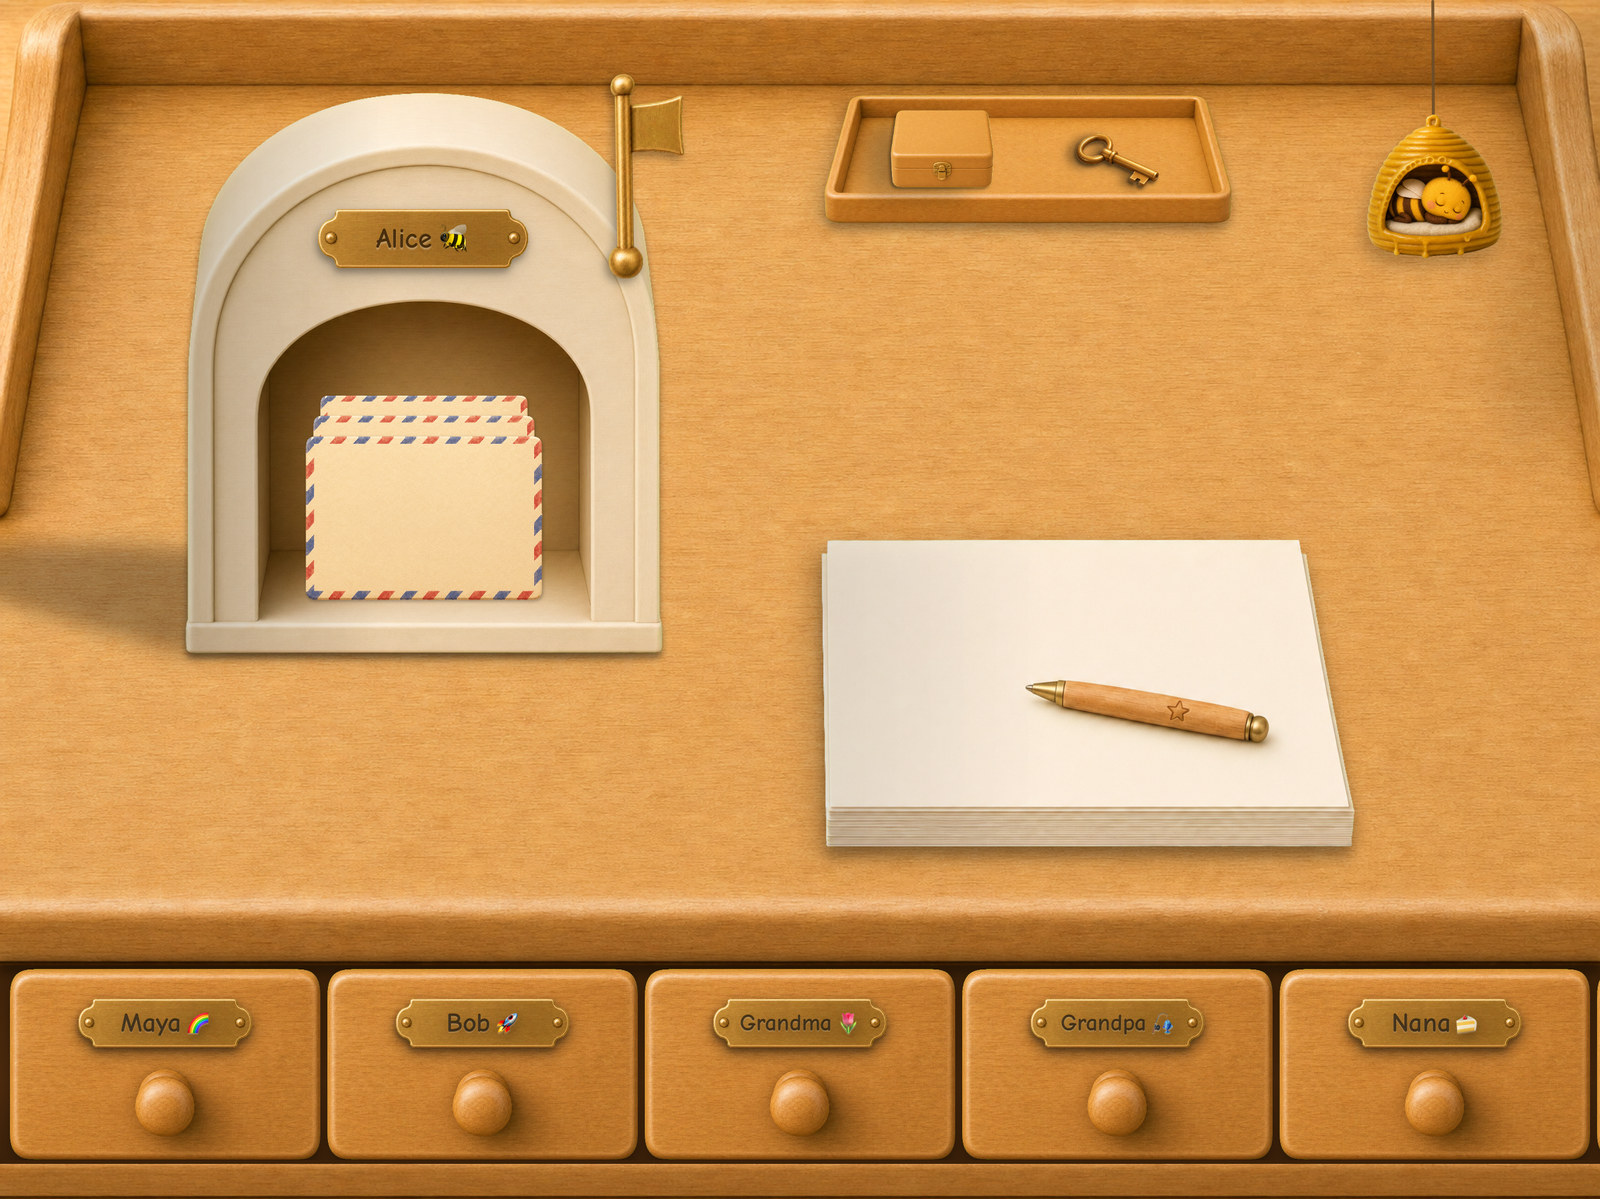
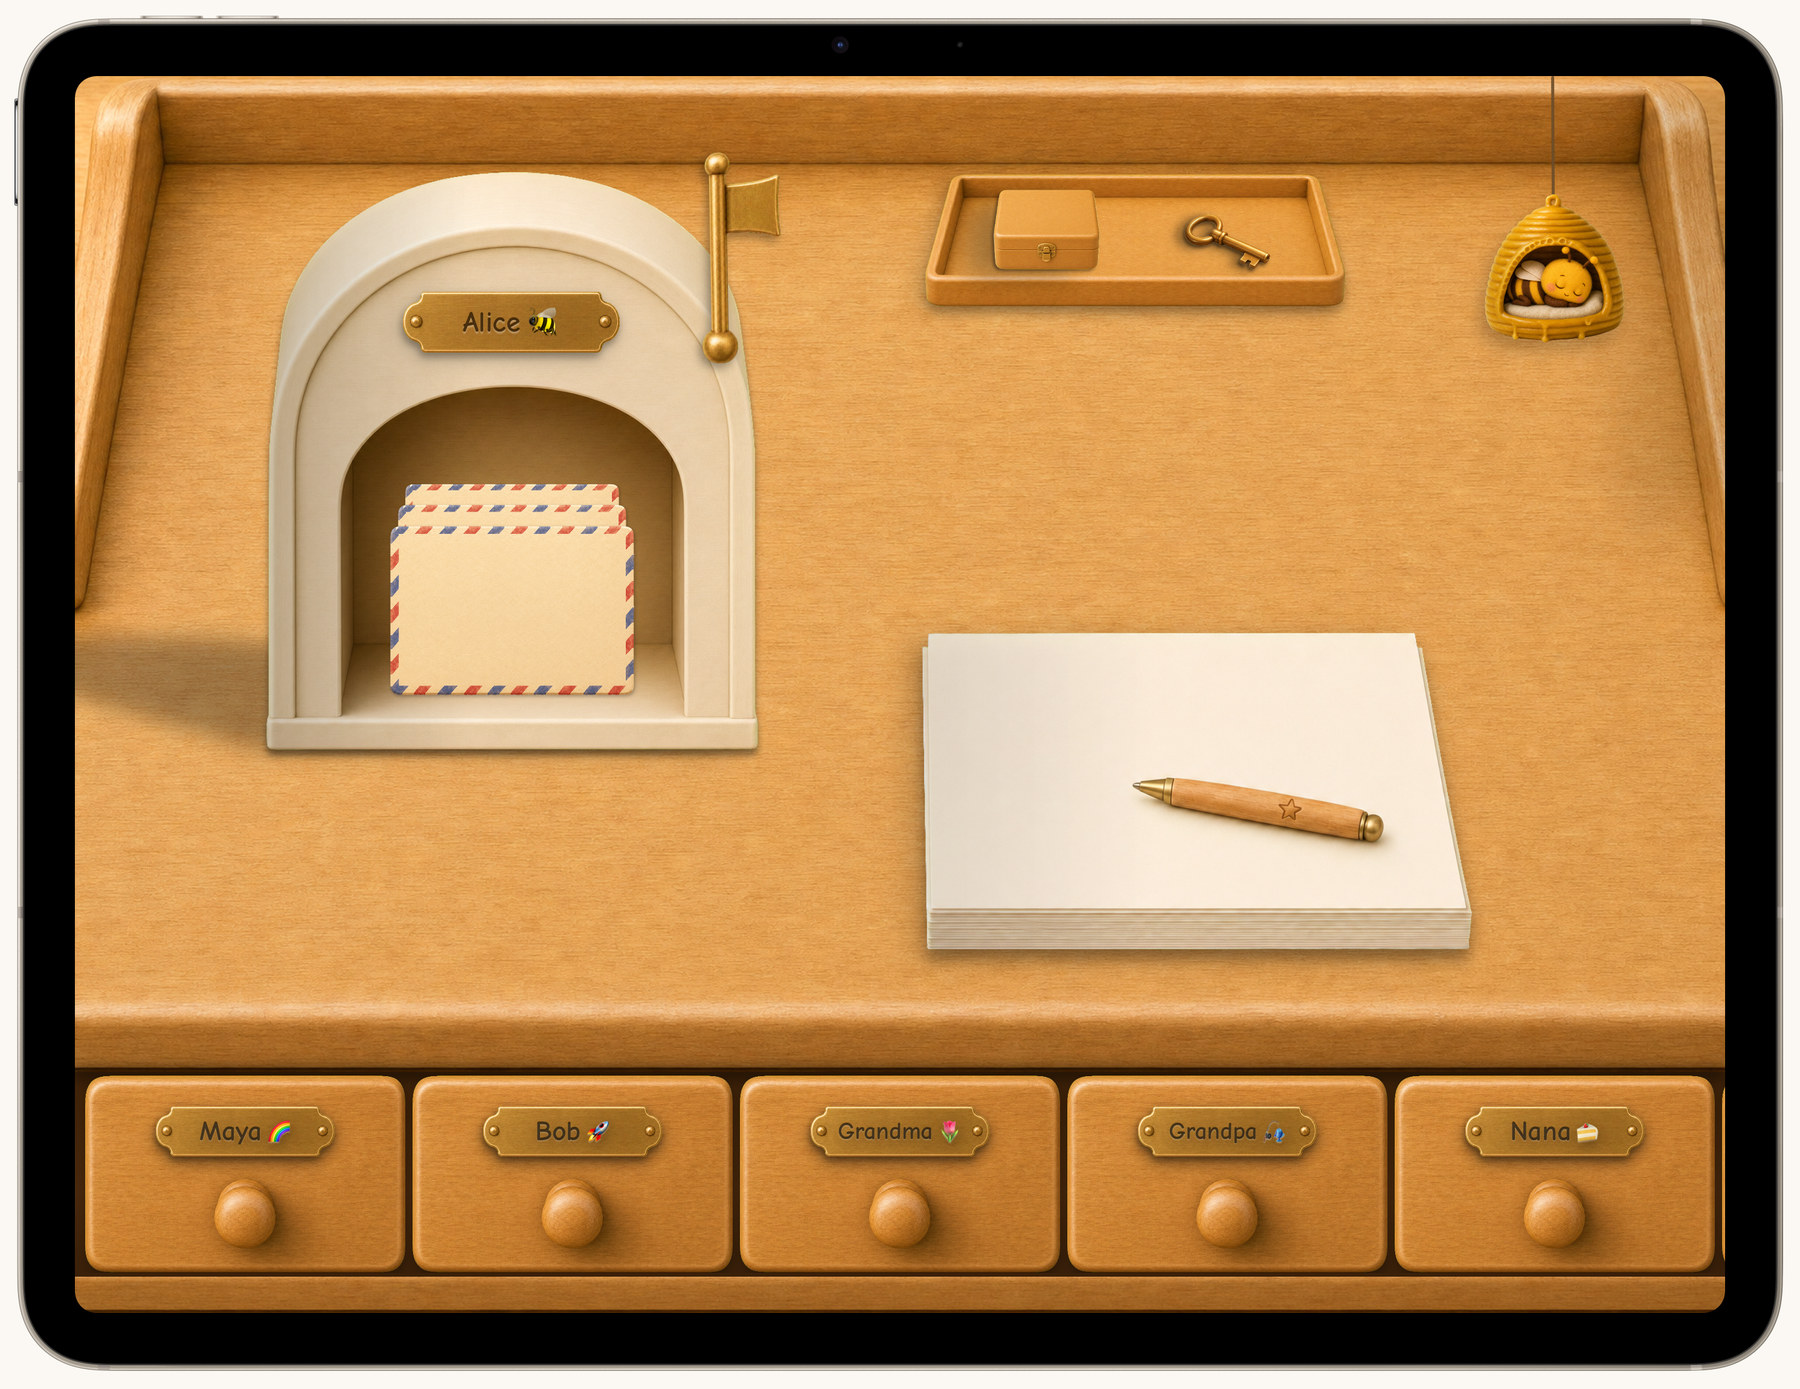
Use Apple's real iPad Air bezel instead of the CSS one
Swaps the hand-drawn CSS device for Apple's own iPad Air 13" (M4) product
bezel (Starlight, landscape) from Apple Design Resources, composited into the
image.

The fit is exact, not approximate: the bezel's screen cut-out measures
2732x2048, which is precisely the native resolution of the iPad Air 13-inch
simulator capture. The screenshot lands 1:1 at offset (124,126) with NO
resampling, so what ships is the app exactly as it rendered.

Finding that hole took a flood fill rather than a bounding box — the bezel
sits on transparency, so the screen and the surround are both alpha 0 and a
naive scan reports the whole canvas. Filling from the border marks the
outside; what stays transparent is the screen.

Flattened onto --paper (#fbf8f3) and shipped as JPEG rather than RGBA PNG: at
2980x2300 the alpha version is megabytes, and since the surround matches the
page background the edge is invisible anyway. 505KB at 1800px, so still sharp
at 2x in a 940px column. No CSS border/radius/shadow — the bezel is the frame
and its shadow is baked into Apple's asset.

Licence: Apple Design Resources are for mock-ups of UIs in software that runs
on Apple platforms, which is what this is. Hardware image unmodified, screen
shows our own app.

diff --git a/styles.css b/styles.css
@@ -115,26 +115,19 @@ a:hover { text-decoration: underline; }
   max-width: 940px;
 }
 
-/* An iPad, drawn in CSS rather than shipped as a PNG mockup: no asset to
-   licence or keep in sync, it stays crisp at every density, and the bezel
-   scales with the shot. The bezel is doing real work — it gives the
-   screenshot a reason to have an edge, which is what the bare crop lacked. */
-.shot .device {
-  background: #1d1d1f;
-  border-radius: 30px;
-  padding: 12px;
-  box-shadow:
-    /* thin lighter rim = the aluminium chamfer catching light */
-    inset 0 0 0 1px rgba(255, 255, 255, 0.10),
-    0 24px 60px rgba(42, 33, 24, 0.28);
-}
+/* The device is now Apple's own iPad Air 13" (M4) product bezel, composited
+   into the image itself rather than drawn in CSS. The bezel's screen hole is
+   exactly 2732x2048 — the native resolution of the simulator capture — so the
+   screenshot lands 1:1 with no resampling.
+
+   The surround is flattened onto --paper, so the JPEG's edge is invisible
+   against the page and no alpha channel has to ship. Which also means NO
+   border, radius or shadow here: the bezel already is the frame, and its own
+   drop shadow is baked into Apple's asset. */
 .shot img {
   width: 100%;
   height: auto;
   display: block;
-  /* Slightly tighter than the bezel radius, the way a real screen sits
-     inside its housing. */
-  border-radius: 20px;
 }
 
 /* ---------- Assurance ---------- */

diff --git a/index.html b/index.html
@@ -34,11 +34,9 @@
     </section>
 
     <figure class="shot">
-      <div class="device">
       <img src="assets/app-desk.jpg"
-           alt="The Buzzybox writing desk on iPad — a mailbox, a stack of paper and pen, drafts, and a sealed envelope"
-           width="1600" height="1199" />
-      </div>
+           alt="Buzzybox running on an iPad Air — a mailbox with mail waiting, a stack of paper and pen, and a row of named drawers"
+           width="1800" height="1389" />
     </figure>
 
     <!-- One line, not three cards. The headline and the screenshot already
